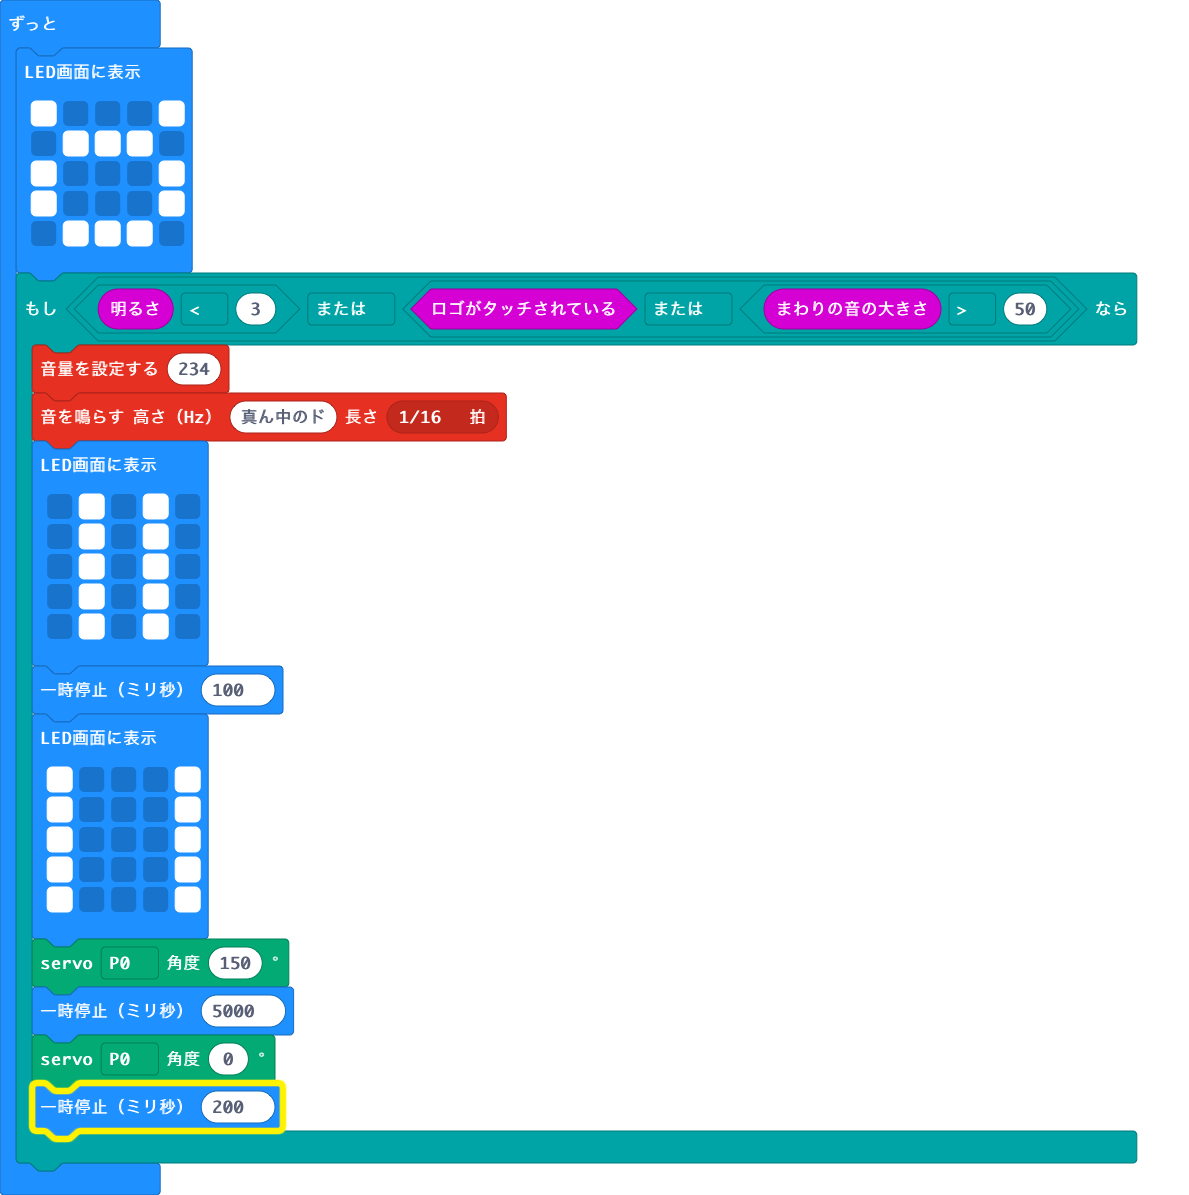
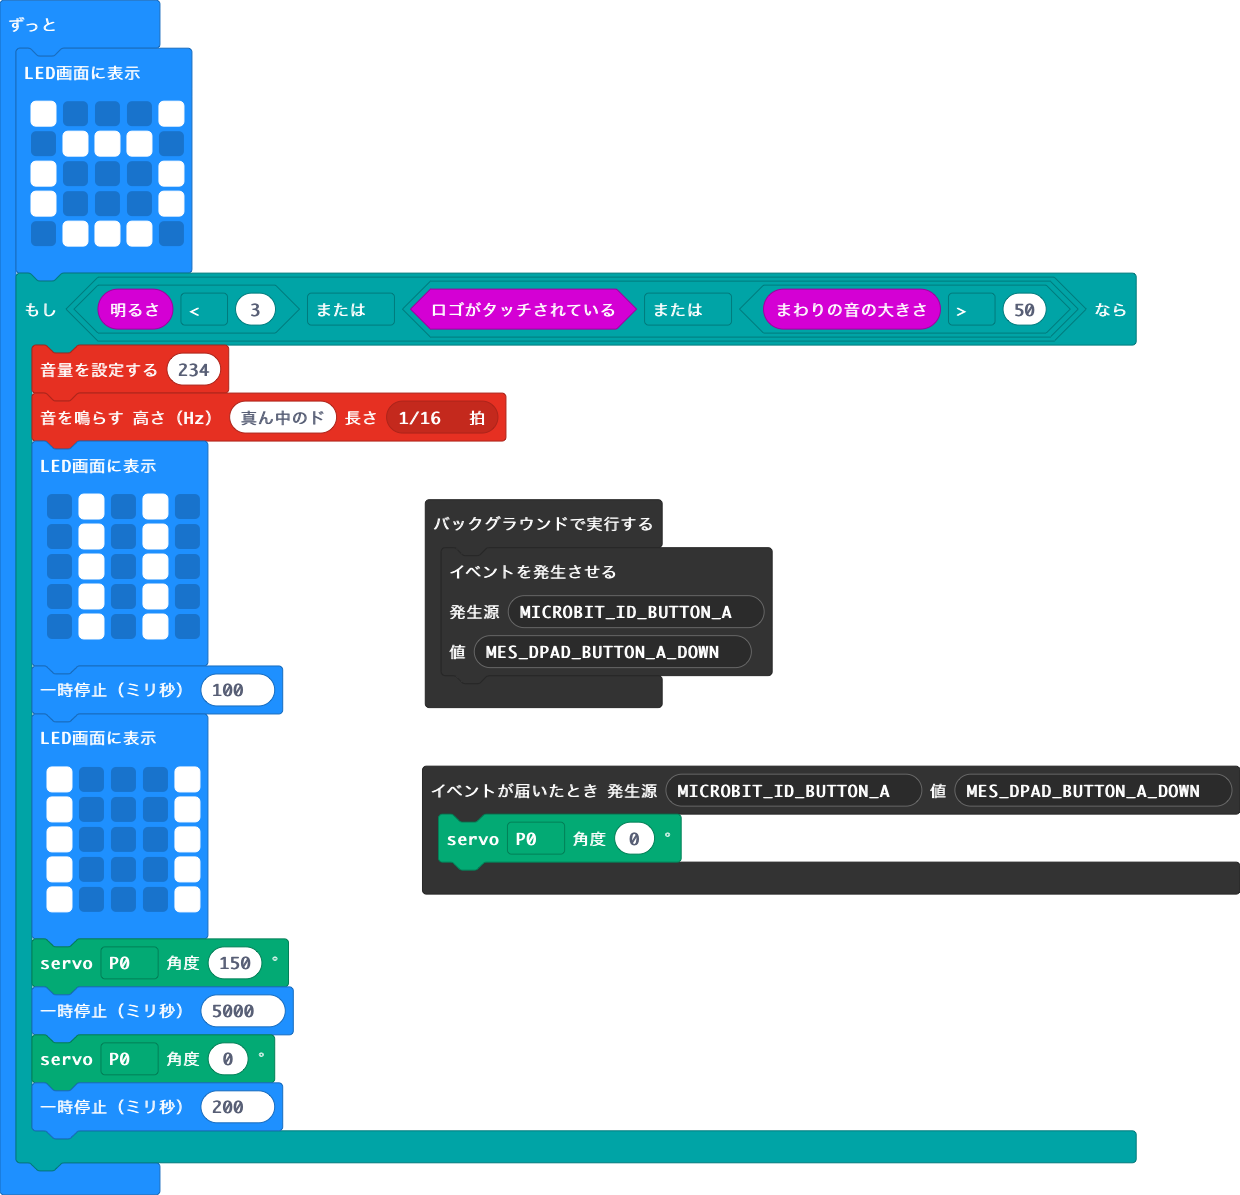
tp add event(button A push)

diff --git a/main.ts b/main.ts
@@ -1,3 +1,6 @@
+control.onEvent(EventBusSource.MICROBIT_ID_BUTTON_A, EventBusValue.MES_DPAD_BUTTON_A_DOWN, function () {
+    servos.P0.setAngle(0)
+})
 basic.forever(function () {
     basic.showLeds(`
         # . . . #
@@ -29,4 +32,10 @@ basic.forever(function () {
         servos.P0.setAngle(0)
         basic.pause(200)
     }
+})
+control.inBackground(function () {
+    control.raiseEvent(
+    EventBusSource.MICROBIT_ID_BUTTON_A,
+    EventBusValue.MES_DPAD_BUTTON_A_DOWN
+    )
 })

diff --git a/main.py b/main.py
@@ -1,3 +1,9 @@
+def on_microbit_id_button_a_mes_dpad_down():
+    servos.P0.set_angle(0)
+control.on_event(EventBusSource.MICROBIT_ID_BUTTON_A,
+    EventBusValue.MES_DPAD_BUTTON_A_DOWN,
+    on_microbit_id_button_a_mes_dpad_down)
+
 def on_forever():
     basic.show_leds("""
         # . . . #
@@ -6,8 +12,8 @@ def on_forever():
                 # . . . #
                 . # # # .
     """)
-    if input.light_level() < 3 or input.logo_is_pressed():
-        music.set_volume(99)
+    if input.light_level() < 3 or (input.logo_is_pressed() or input.sound_level() > 50):
+        music.set_volume(234)
         music.play_tone(262, music.beat(BeatFraction.SIXTEENTH))
         basic.show_leds("""
             . # . # .
@@ -24,10 +30,13 @@ def on_forever():
                         # . . . #
                         # . . . #
         """)
-        servos.P1.set_angle(0)
+        servos.P0.set_angle(150)
+        basic.pause(5000)
         servos.P0.set_angle(0)
-        basic.pause(500)
-        servos.P1.set_angle(90)
-        servos.P0.set_angle(90)
-        basic.pause(500)
+        basic.pause(200)
 basic.forever(on_forever)
+
+def on_in_background():
+    control.raise_event(EventBusSource.MICROBIT_ID_BUTTON_A,
+        EventBusValue.MES_DPAD_BUTTON_A_DOWN)
+control.in_background(on_in_background)
